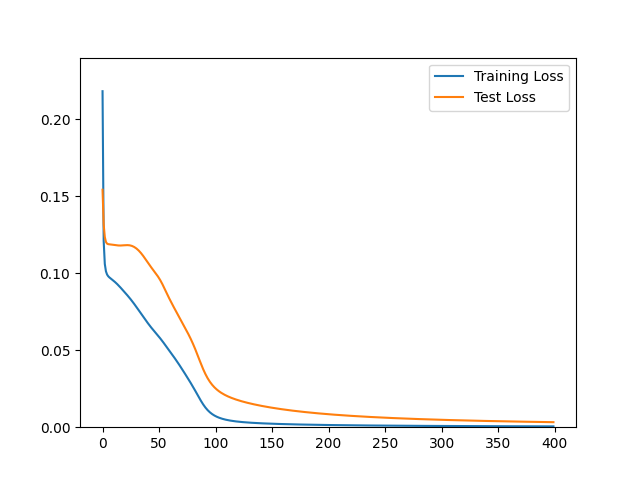
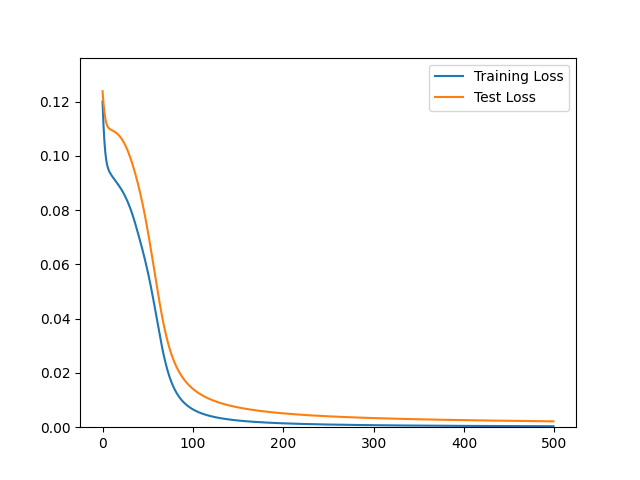
GS_modifica1

diff --git a/src/grid_search_cv.py b/src/grid_search_cv.py
@@ -17,8 +17,8 @@ class SimpleGridSearchCV:
         self.best_fold_accuracies = []
         
         self.lr_range = [0.01, 0.05, 0.1, 0.15, 0.2, 0.25]
-        self.hidden_range = [2, 4, 6, 8, 10, 12, 14]
-        self.epochs_range = [100, 200, 300, 400, 500]
+        self.hidden_range = [2, 3, 4, 6, 8]
+        self.epochs_range = [300, 400, 500]
     
     def _create_folds(self, X, y, seed=42):
 
@@ -177,7 +177,7 @@ class SimpleGridSearchCV:
        # Ricerca dicotomica per i parametri principali
        
         print("\n" + "="*60)
-        print("RICERCA DICOTOMICA DEI PARAMETTI")
+        print("RICERCA DICOTOMICA DEI PARAMETRI")
         print("="*60)
         
         input_size = X.shape[1]
